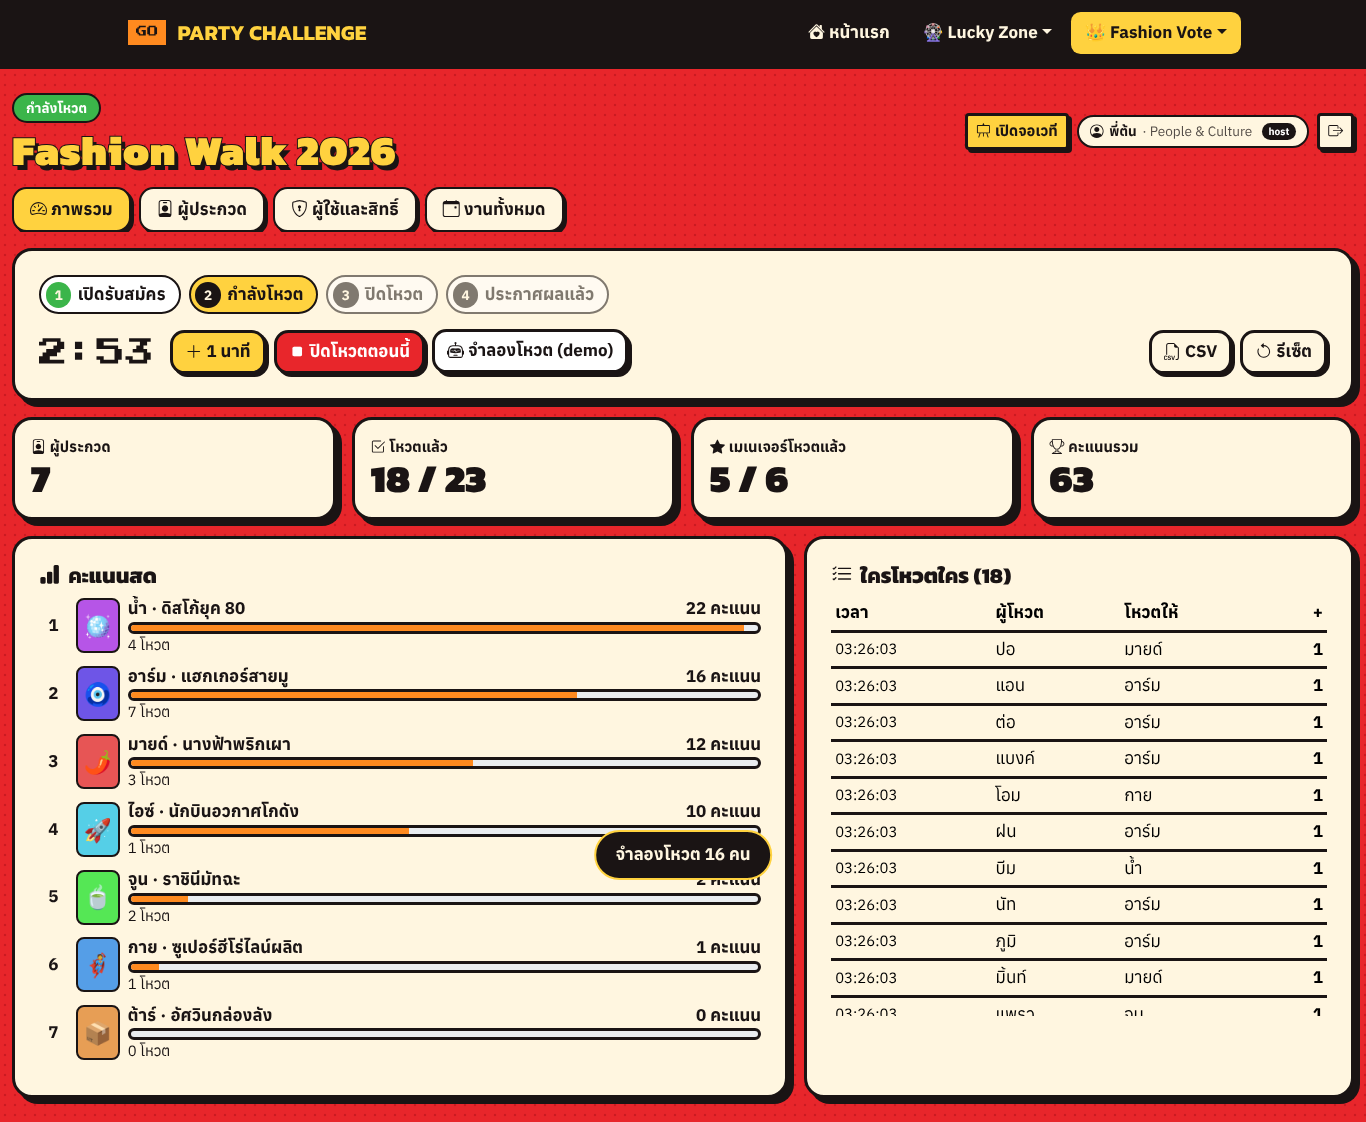
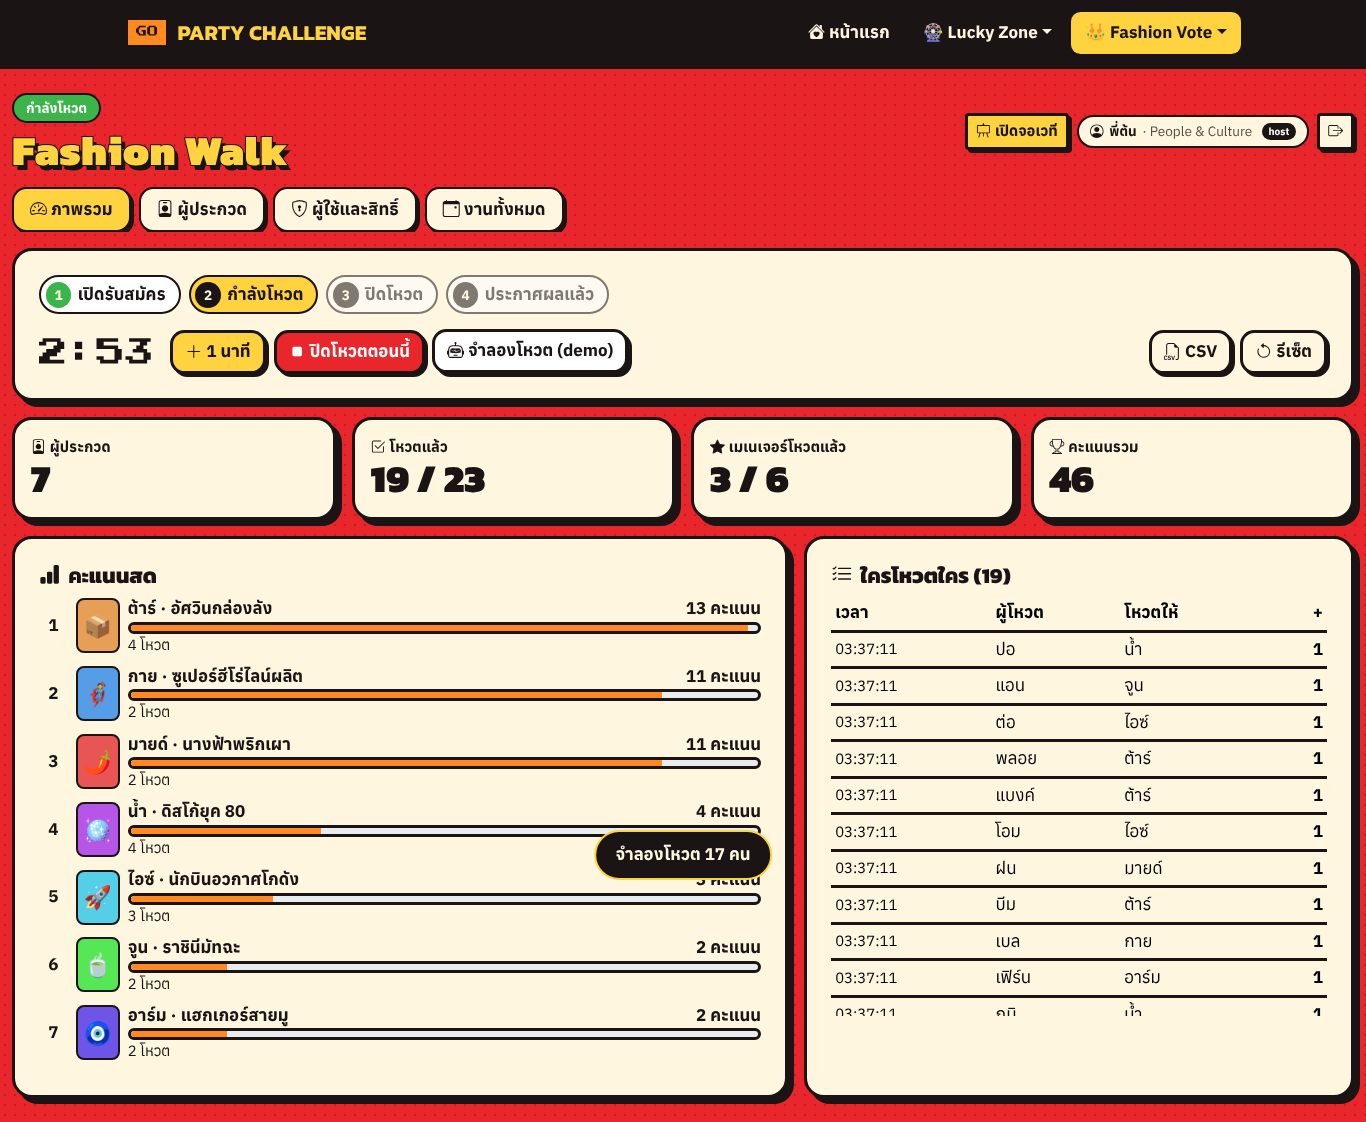
Drop years from event names; defer Slack/Firestore to go-live; PO advice for gacha
- Demo events: 'Fashion Walk', 'ประกวดชุดไทย' (no year) so the site is reusable
- Bump mock storage key to reload demo data
- PRODUCT: Phase 2b moves to Phase 4 (Google Cloud), PO recommendation for
  Q1 (open exchange) and Q2 (typed names now, Slack later)
- Log: new logo not yet in Drive

Claude-Session: https://claude.ai/code/session_01C4zrpFip3FS6PW2GKasSrt

diff --git a/public/prototypes/costume-vote.html b/public/prototypes/costume-vote.html
@@ -273,12 +273,12 @@ function seed(){
   const mkC=(slackId,title,emoji,hue,status)=>{const u=find(slackId);return{id:uid('c_'),slackId,name:u.name,team:u.dept,title,emoji,hue,photo:null,status:status||'approved',createdAt:Date.now()};};
   const managerIds=['U01','U02','U03','U04','U05','U06'];
   // past event with results
-  const past={id:'ev_2026ny',name:'ปาร์ตี้ปีใหม่ 2026 ประกวดชุดไทย',status:'revealed',durationMin:5,endsAt:null,createdAt:new Date('2026-01-09T19:00:00').getTime(),revealStep:4,votes:[],
+  const past={id:'ev_thai',name:'ประกวดชุดไทย',status:'revealed',durationMin:5,endsAt:null,createdAt:new Date('2026-01-09T19:00:00').getTime(),revealStep:4,votes:[],
     contestants:[mkC('U08','ชุดไทยจักรพรรดิ','👑',45),mkC('U14','ขุนแผนยุคดิจิทัล','⚔',210),mkC('U21','นางรำมาตรฐานสากล','💃',330),mkC('U29','แม่ค้าตลาดน้ำ','🛶',160)]};
   const r=rng(2026), cs=past.contestants, cIds=cs.map(c=>c.slackId);
   users.filter(u=>!cIds.includes(u.id)).forEach((u,i)=>{if(r()<.9){const c=pickWeighted(cs,[4,5,3,2],r);past.votes.push({id:uid('v_'),voterId:u.id,contestantId:c.id,weight:managerIds.includes(u.id)?10:1,at:past.createdAt+60000+i*9000});}});
   past.revealStep=past.contestants.length;
-  const cur={id:'ev_party26',name:'Party 2026 ประกวดชุดแฟนซี',status:'registration',durationMin:5,endsAt:null,createdAt:Date.now(),revealStep:0,votes:[],
+  const cur={id:'ev_main',name:'ประกวดชุดแฟนซี',status:'registration',durationMin:5,endsAt:null,createdAt:Date.now(),revealStep:0,votes:[],
     contestants:[mkC('U07','แม่มดรับงานด่วน','🧙♀',280),mkC('U12','ไดโนเสาร์เดินสายไฟ','🦖',120),mkC('U17','นางฟ้าสายออฟฟิศ','👼',50),mkC('U23','นักบินอวกาศกล่องลัง','🧑🚀',200),mkC('U25','ผีเสื้อราตรี','🦋',310),mkC('U20','โจรสลัดคลังสินค้า','🏴☠',20,'pending')]};
   return{users,managerIds,hostIds:['U01','U02'],events:[cur,past],activeEventId:cur.id};
 }
@@ -486,7 +486,7 @@ function hostEvents(){
     return `<div class="evcard ${active?'active':''}"><div><div class="row" style="gap:8px">${pill(e.status)}<span class="hint">${fmtD(e.createdAt)}</span></div><h3 style="margin-top:6px">${esc(e.name)}</h3>
       <p class="hint">ผู้ประกวด ${approved(e).length} คน, โหวต ${e.votes.length} ครั้ง${w?`, ผู้ชนะ ${esc(w.c.title)} (${esc(w.c.name)}) ${w.score} คะแนน`:''}</p></div>
       <div class="row">${active?'<span class="tag h">กำลังใช้งาน</span>':`<button class="btn sm primary" data-act="setActive" data-id="${e.id}">เปิดดูงานนี้</button><button class="btn sm danger" data-act="delEvent" data-id="${e.id}">ลบ</button>`}</div></div>`;}).join('');
-  return `<div class="stack"><form class="panel row" data-form="newEvent"><div class="field" style="flex:1;min-width:220px"><label for="n-ev">สร้างงานใหม่</label><input id="n-ev" name="name" required placeholder="เช่น Party 2027 ประกวดชุดธีมยุค 90"></div><button class="btn primary" type="submit" style="align-self:flex-end">สร้างงาน</button></form>
+  return `<div class="stack"><form class="panel row" data-form="newEvent"><div class="field" style="flex:1;min-width:220px"><label for="n-ev">สร้างงานใหม่</label><input id="n-ev" name="name" required placeholder="เช่น ประกวดชุดธีมยุค 90"></div><button class="btn primary" type="submit" style="align-self:flex-end">สร้างงาน</button></form>
     <div class="stack">${cards}</div>
     <div class="row"><button class="btn ghost sm" data-act="resetDemo">ล้างข้อมูลและเริ่มตัวอย่างใหม่</button></div></div>`;
 }

diff --git a/lib/vote/seed.ts b/lib/vote/seed.ts
@@ -23,7 +23,7 @@ export function seedState(): VoteState {
   });
   const now = Date.now();
   const current: VoteEvent = {
-    id: 'ev_main', name: 'Fashion Walk 2026', status: 'registration', durationMin: 5, endsAt: null, revealStep: 0, createdAt: now,
+    id: 'ev_main', name: 'Fashion Walk', status: 'registration', durationMin: 5, endsAt: null, revealStep: 0, createdAt: now,
     contestants: [
       mk('U07', 'นางฟ้าพริกเผา', '🌶', 0), mk('U16', 'อัศวินกล่องลัง', '📦', 30), mk('U25', 'ราชินีมัทฉะ', '🍵', 120),
       mk('U12', 'ซูเปอร์ฮีโร่ไลน์ผลิต', '🦸', 210), mk('U21', 'ดิสโก้ยุค 80', '🪩', 280), mk('U23', 'แฮกเกอร์สายมู', '🧿', 250),
@@ -34,7 +34,7 @@ export function seedState(): VoteState {
   // งานเก่าพร้อมผล (ตัวอย่างหน้า "งานทั้งหมด")
   const pastC = [mk('U13', 'ชุดไทยประยุกต์', '👘', 330), mk('U27', 'ชุดไทยจักรี', '👑', 45), mk('U18', 'ชุดไทยเรือนต้น', '🌸', 300)];
   const past: VoteEvent = {
-    id: 'ev_ny2026', name: 'ปาร์ตี้ปีใหม่ 2026 · ประกวดชุดไทย', status: 'revealed', durationMin: 5, endsAt: null, revealStep: 3,
+    id: 'ev_thai', name: 'ประกวดชุดไทย', status: 'revealed', durationMin: 5, endsAt: null, revealStep: 3,
     createdAt: now - 1000 * 60 * 60 * 24 * 300, contestants: pastC,
     votes: users.filter((x) => !['U13', 'U27', 'U18'].includes(x.id)).map((x, i) => ({
       voterId: x.id, contestantId: pastC[(i * 7) % 3].id, weight: x.isManager ? 10 : 1, at: now - 1000 * 60 * 60 * 24 * 300 + i * 1000,

diff --git a/app/vote/admin/AdminApp.tsx b/app/vote/admin/AdminApp.tsx
@@ -334,7 +334,7 @@ function Events({ state, run }: { state: VoteState; run: (r: Result) => void }) 
       <div className="col-lg-4">
         <form className="card-pop p-3 p-md-4" onSubmit={(x) => { x.preventDefault(); const r = voteApi.createEvent(name); run(r); if (r.ok) setName(''); }}>
           <h2 className="h5"><i className="bi bi-calendar-plus me-2" />สร้างงานใหม่</h2>
-          <input className="form-control mb-2" placeholder="เช่น ปาร์ตี้ปีใหม่ 2027" value={name} onChange={(x) => setName(x.target.value)} required />
+          <input className="form-control mb-2" placeholder="เช่น ประกวดชุดไทย" value={name} onChange={(x) => setName(x.target.value)} required />
           <button type="submit" className="btn btn-pop w-100">สร้างและใช้งาน</button>
         </form>
         <button type="button" className="btn btn-sm btn-link text-cream mt-2" onClick={() => { if (confirm('ล้างข้อมูล demo ทั้งหมดกลับเป็นตัวอย่าง?')) voteApi.factoryReset(); }}>

diff --git a/lib/vote/mock-store.ts b/lib/vote/mock-store.ts
@@ -9,7 +9,7 @@ import { approved, castVote, isOpen, VOTE_ERROR_TH, weightOf } from './logic';
 import { seedState, uid } from './seed';
 import type { Contestant, VoteEvent, VoteState } from './types';
 
-const KEY = 'oc_vote_state_v2'; // v2: ข้อมูลตัวอย่างไม่มีชื่องานเฉพาะ
+const KEY = 'oc_vote_state_v3'; // v3: ชื่องานตัวอย่างไม่มีชื่องานเฉพาะและไม่มีปี
 const ME = 'oc_vote_me';
 const CH = 'oc_vote';
 

diff --git a/docs/PRODUCT.md b/docs/PRODUCT.md
@@ -24,18 +24,31 @@
 | D5 | สุ่มกาชาปอง | `lib/fair-draw.ts` ใช้ร่วม server + หน้าตรวจผล | โปร่งใส ตรวจซ้ำได้ |
 | D6 | ธีม | **Spicy Snack Pack** (ดู `docs/DESIGN.md`) แทนธีม Matchazuki/ม่วงเดิม | ตาม mood ใหม่: สนุก มีพลัง สีสด |
 | D7 | Hosting | **Vercel Hobby (ฟรี) เฉพาะ demo สั้นๆ ไม่มีข้อมูลจริง แล้วลบทิ้ง** → Cloud Run บริษัท (จริง) | ผู้ใช้เลือก 2026-11-12 · demo ใช้ข้อมูลตัวอย่างเท่านั้น ไม่ตั้ง env Slack/Sheet |
-| D9 | ชื่อ/แบรนด์ | **PARTY CHALLENGE** + มาสคอตจี๊ดสีเขียว · ห้ามมีคำเฉพาะงาน (เช่น outing) ในโค้ด/ภาพ | ผู้ใช้เลือก 2026-11-13 เพื่อใช้ซ้ำกับงานอื่น · โลโก้รอภาพใหม่ ระหว่างนี้ใช้ตัวหนังสือ CSS |
+| D9 | ชื่อ/แบรนด์ | **PARTY CHALLENGE** + มาสคอตจี๊ดสีเขียว · ห้ามมีคำเฉพาะงาน (เช่น outing) **และเลขปี** ในโค้ด/ภาพ/ข้อมูลตัวอย่าง | ผู้ใช้เลือก 2026-11-13 เพื่อใช้ซ้ำกับงานอื่น · โลโก้รอภาพใหม่ ระหว่างนี้ใช้ตัวหนังสือ CSS |
 | D8 | ผลวงล้อเข้าชีท | ส่งผ่าน `POST /api/sheet` (secret อยู่ใน env ฝั่ง server) | แก้ข้อ 1–2 ใน handoff SPEC §6 · ไม่ตั้ง env = เก็บในเครื่อง + CSV |
 
 ## 3. ❓ Open questions (ต้องตอบก่อนเริ่ม phase ที่เกี่ยว)
 | # | คำถาม | กระทบ | ค่าเริ่มต้นถ้ายังไม่ตอบ |
 |---|---|---|---|
-| Q1 | กาชาปองแลกของ **เปิดเผย** หรือ **ลับ (Secret Santa)**? | Phase 3 จอเวที/หน้าตรวจผล | เปิดเผย |
-| Q2 | ใช้ **Slack login** กับกาชาปองด้วยไหม (แก้ชื่อซ้ำ) หรือพิมพ์ชื่อเอง? | Phase 3 | พิมพ์ชื่อ + ตรวจชื่อซ้ำ |
+| Q1 | กาชาปองแลกของ **เปิดเผย** หรือ **ลับ (Secret Santa)**? | Phase 3 จอเวที/หน้าตรวจผล | **PO แนะนำ: เปิดเผย** (รอคุยกับป๊อป) — เหตุผลใน §3.1 |
+| Q2 | ใช้ **Slack login** กับกาชาปองด้วยไหม (แก้ชื่อซ้ำ) หรือพิมพ์ชื่อเอง? | Phase 3 | **PO แนะนำ: พิมพ์ชื่อเอง** + เตือนชื่อซ้ำ + host เพิ่มชื่อแทนได้ (รอคุยกับป๊อป) — เหตุผลใน §3.1 |
 | ~~Q3~~ | ~~Vercel demo ใช้บัญชีอะไร~~ | ✅ ตอบแล้ว → D7 | |
 | Q4 | Fashion Vote มีหลายหมวดรางวัลไหม (สวยสุด/ฮาสุด) | Phase 2 data model | 1 หมวด แต่ออกแบบ schema ให้เพิ่มได้ |
 | Q5 | วันงาน / จำนวนคน / wifi สถานที่ | ทดสอบโหลด + แผนสำรอง | 100 คน · มี hotspot สำรอง |
 | ~~Q6~~ | ~~ชื่อเว็บ~~ | ✅ ตอบแล้ว → D9 | |
+
+### 3.1 คำแนะนำ PO สำหรับ Q1–Q2 (2026-11-13)
+**Q1 → แลกของแบบเปิดเผย**
+- จุดที่ผู้ใหญ่กังวลคือ "ระบบล็อกผล" — แบบเปิดเผยตรวจได้ **ทันทีบนเวที** (เลขลูกเต๋า + วงกลม + ตรวจกติกา 3 ข้อ) ตรงกับสคริปต์พิธีกรใน `docs/copy.md`
+- แบบลับต้องซ่อนเลขลูกเต๋าไว้ก่อน (ใครรู้เลข+รายชื่อคำนวณผลทุกคนได้) → ความโปร่งใสต้องรอหลังแลกของเสร็จ ขัดกับสคริปต์ที่บอกว่า "ตรวจเองได้เลย"
+- แลกของกันในงานทันทีอยู่แล้ว ความลับจึงอยู่ได้แค่ไม่กี่นาที · จอเวทีบอกผลทุกคนได้ ช่วยคนที่ใช้มือถือไม่คล่อง · ใช้วงกลมเป็นลำดับเดินแลกของได้ (สนุกบนเวที)
+- ถ้าอนาคตอยากเล่น Secret Santa (ส่งของล่วงหน้าหลายวัน) ค่อยเพิ่มเป็นตัวเลือกในหลังบ้าน — โครงสูตรสุ่มเดิมรองรับ
+
+**Q2 → พิมพ์ชื่อเอง (ตอนนี้)**
+- Slack login ยังไม่มีจนกว่าจะขึ้น Google Cloud (Phase 2b ถูกเลื่อนไปช่วงนั้น) → พิมพ์ชื่อทำให้กาชาปองเล่นได้ก่อน
+- กันชื่อซ้ำด้วยการเตือน + แนะนำใส่ทีมต่อท้าย · host เพิ่ม/ลบชื่อแทนคนที่ไม่ถนัดมือถือได้ · host ล็อกห้องต่อหน้าทุกคนก่อนสุ่ม
+- ออกแบบให้สลับเป็น Slack login ได้ทีหลังโดยไม่ต้องแก้ส่วนสุ่ม
+- ⚠ ข้อจำกัดเดียวกับ Fashion Vote: ระหว่างยังไม่มี Firestore ห้องกาชาปองซิงก์ได้แค่หลายแท็บในเครื่องเดียว (ใช้ทดลอง/ซ้อม) — เล่นจริงหลายมือถือต้องรอขึ้น Google Cloud
 
 ## 4. Roadmap
 | Phase | เป้าหมาย | ส่งมอบ | สถานะ |
@@ -43,9 +56,9 @@
 | **0 · Foundation** | โครงเว็บ + ธีม + landing + เมนู + deploy demo | repo นี้ · หน้า landing · placeholder ทุกหน้า | ✅ โครงเสร็จ · ⏳ deploy Vercel |
 | **0.5 · Brand assets** | ได้ภาพ/มาสคอตจาก ChatGPT มาแทน emoji | `public/brand/**` ตาม `docs/CHATGPT-PROMPTS.md` | ✅ ใส่ในหน้าแรก/วงล้อ/โหวต/404 แล้ว (มาสคอตจี๊ด สีเขียว) |
 | **1 · วงล้อคู่** | พอร์ตวงล้อจากต้นแบบ (ใช้ได้ทันทีไม่ต้องมี backend) | `/lucky/wheel` | ✅ เสร็จ (รอภาพจริงจาก 0.5) |
-| **2 · Fashion Vote** | Slack login + โหวต + หลังบ้าน + จอเวที | `/vote`, `/vote/admin`, `/vote/stage` | 🟡 2a เสร็จ (UI ครบ + backend จำลอง) · ⏳ 2b ต่อ Slack + Firestore |
-| **3 · กาชาปอง** | ห้อง real-time + สุ่มลูกเต๋า + หน้าตรวจผล | `/lucky/gacha`, `/lucky/gacha/stage`, `/verify` | ⏳ รอ Q1, Q2 |
-| **4 · Go-live** | ย้าย Cloud Run บริษัท + ซ้อม + load test | Dockerfile + deploy script | ⏳ |
+| **2 · Fashion Vote** | Slack login + โหวต + หลังบ้าน + จอเวที | `/vote`, `/vote/admin`, `/vote/stage` | 🟡 2a เสร็จ (UI ครบ + backend จำลอง) · ⏸ 2b ต่อ Slack + Firestore **เลื่อนไปทำพร้อม Phase 4** (ผู้ใช้ตัดสิน 2026-11-13) |
+| **3 · กาชาปอง** | ห้อง real-time + สุ่มลูกเต๋า + หน้าตรวจผล | `/lucky/gacha`, `/lucky/gacha/stage`, `/verify` | ⏳ รอยืนยัน Q1, Q2 (PO แนะนำแล้ว) · ทำบน backend จำลองก่อน |
+| **4 · Go-live** | ย้าย Cloud Run บริษัท + **ต่อ Slack + Firestore (2b)** + ซ้อม + load test | Dockerfile + deploy script | ⏳ หลังเว็บสมบูรณ์ |
 
 > ลำดับ 1 ก่อน 2: วงล้อไม่ต้องมี backend จึงได้ของเล่นได้จริงเร็วสุด ระหว่างนั้นขอ Slack App/GCP ไปพร้อมกัน
 
@@ -81,7 +94,7 @@
 - [x] **V-5** จอเวที: นับคนโหวต + progress + นับถอยหลัง (ไม่โชว์คะแนน) → เปิดผลทีละอันดับจากท้าย (Space/→/←, การ์ดพลิก) → ผู้ชนะ + มาสคอต + พลุ · ปิดอัตโนมัติเมื่อหมดเวลา
 - [x] ทดสอบ E2E 4 แท็บพร้อมกัน (host / จอเวที / พนักงาน / เมเนเจอร์) ผ่าน
 
-**2b (ถัดไป) — ต่อของจริง** ⚠ ต้องมีของจาก IT/Admin ก่อน (ดูหัวข้อ "สิ่งที่ต้องเตรียม")
+**2b — ต่อของจริง (เลื่อนไปทำตอนขึ้น Google Cloud ใน Phase 4)** ⚠ ต้องมีของจาก IT/Admin ก่อน (ดูหัวข้อ "สิ่งที่ต้องเตรียม")
 - [ ] **V-1** Sign in with Slack (Auth.js + OIDC, ตรวจ team ID) แทน `SignIn` จำลอง
 - [ ] **V-3 (API)** `POST /api/vote` ใช้ `castVote()` ใน Firestore transaction · doc id = slackId
 - [ ] **V-6** แทน `mock-store.ts` ด้วย Firestore (หน้า host/จอเวที subscribe ตรง · มือถืออ่านครั้งเดียว) + Security Rules

diff --git a/docs/brand/ASSETS.md b/docs/brand/ASSETS.md
@@ -12,7 +12,7 @@
 | 4 กาชาปอง | ตู้ + แคปซูล 3 สถานะ | ตู้ 1 + sprite 3 ช่อง | ✅ ตัดแยกเป็น 4 ไฟล์ | `public/brand/stickers/gacha-machine.webp`, `capsule-{closed,crack,open}.webp` |
 | 5 สติกเกอร์ ×8 | chili, flame, star, crown, trophy, gift, dice, camera | ได้ 2 แผ่น (เนื้อหาเหมือนกัน) | ✅ ใช้แผ่น 1536×768 ตัดเป็น 8 ไฟล์ · แผ่น 1774×887 ซ้ำ ไม่ได้ใช้ | `public/brand/stickers/*.webp` |
 | 6 พื้นหลังเวที | stage-vote, stage-lucky (1920×1080) | ครบ 2 | ✅ กลางจอมืดและโล่ง ตัวเลขใหญ่อ่านง่าย | `public/brand/backgrounds/*.webp` |
-| 7 โลโก้ | OUTING CHALLENGE | 1600×800 โปร่งใส | 🔁 **ต้องทำใหม่** — เปลี่ยนชื่อเป็น PARTY CHALLENGE (2026-11-13) · ลบออกจากเว็บแล้ว ใช้ตัวหนังสือ CSS ชั่วคราว | รอ `public/brand/logo.webp` ใหม่ |
+| 7 โลโก้ | OUTING CHALLENGE | 1600×800 โปร่งใส | 🔁 **ต้องทำใหม่** — เปลี่ยนชื่อเป็น PARTY CHALLENGE (2026-11-13) · ลบออกจากเว็บแล้ว ใช้ตัวหนังสือ CSS ชั่วคราว | รอ `public/brand/logo.webp` ใหม่ · 2026-11-13 ตรวจ Drive แล้วไฟล์ยังเป็น OUTING (ขนาดเท่าเดิม) |
 | 8 OG + icon | og 1200×630, icon 512 | ครบ | ✅ ฝั่งซ้ายโล่งสำหรับข้อความ · ไอคอนอ่านออกที่ 32px (16px เห็นแค่วงกลมเขียว-เหลือง) | `app/opengraph-image.jpg`, `app/icon.png`, `app/apple-icon.png` |
 | 9 ข้อความ | `docs/copy.md` | ✅ | เนื้อหาเดียวกับที่ใส่ใน repo แล้ว | `docs/copy.md` |
 | 10 โปสเตอร์ QR | A4 2480×3508 | ✅ ช่องครีมกลางว่างสำหรับ QR | ไม่ใส่ใน repo (4.3 MB, ใช้พิมพ์) — ใส่ QR + ข้อความด้วย Canva ก่อนพิมพ์ |

diff --git a/docs/log/2026-11-12-phase2a-status.md b/docs/log/2026-11-12-phase2a-status.md
@@ -24,3 +24,9 @@
 2. **Phase 3 กาชาปอง — ต้องได้คำตอบก่อนเริ่ม**
    - แลกของแบบเปิดเผย หรือแบบลับ (Secret Santa)?
    - ใช้ Slack login หรือพิมพ์ชื่อเอง?
+
+## อัปเดต 2026-11-13
+- เปลี่ยนชื่อเป็น PARTY CHALLENGE · เอา outing และเลขปีออกจากเว็บ/ข้อมูลตัวอย่าง
+- ข้อ 1 (Slack + Firestore) → ผู้ใช้ให้เลื่อนไปทำตอนขึ้น Google Cloud หลังเว็บสมบูรณ์
+- ข้อ 2 → PO แนะนำ: แลกของแบบเปิดเผย + พิมพ์ชื่อเอง (รอผู้ใช้คุยกับป๊อปแล้วยืนยัน) — รายละเอียด `docs/PRODUCT.md` §3.1
+- โลโก้ใหม่ยังไม่เข้า Drive (ไฟล์ในโฟลเดอร์ 06 ยังเป็น OUTING)
